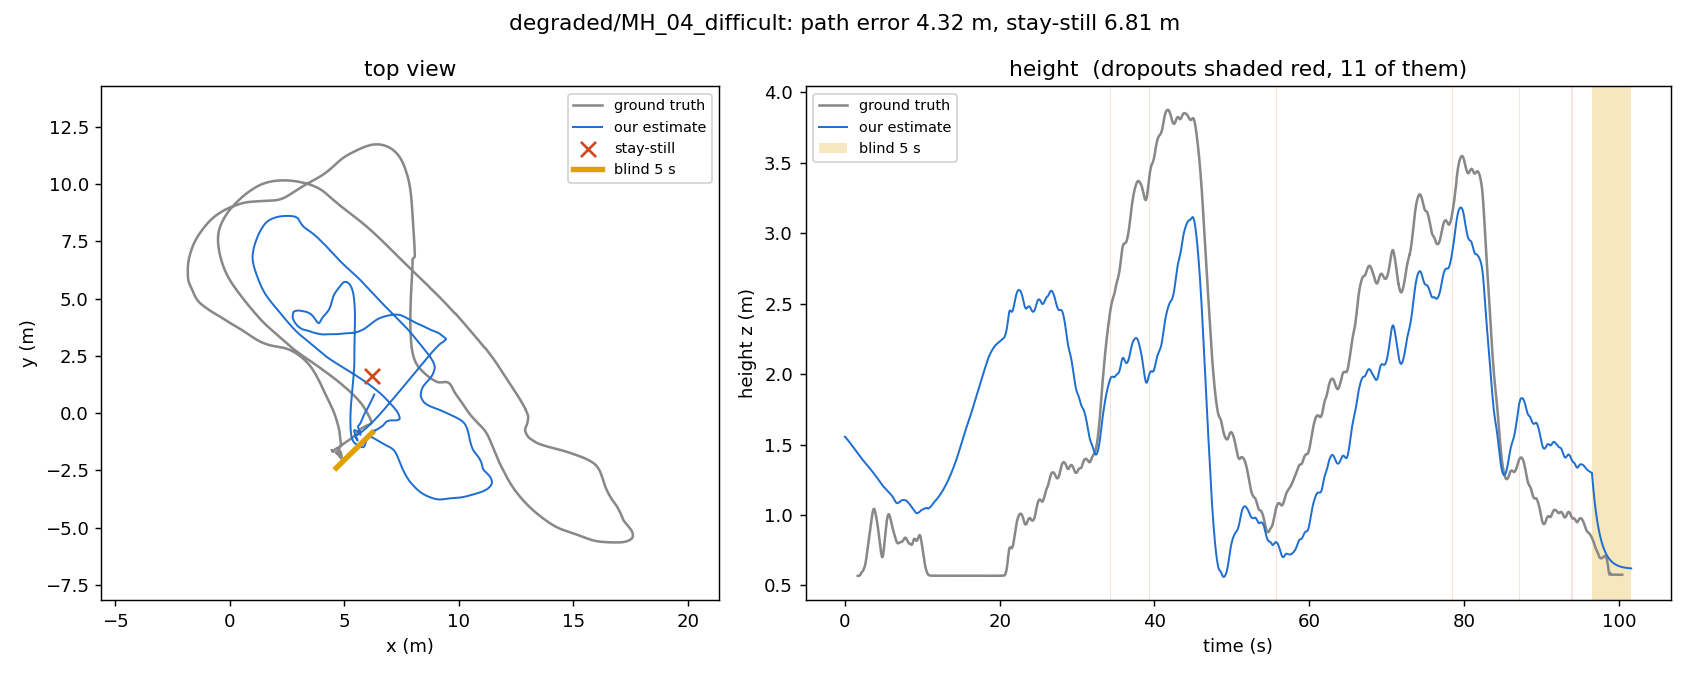
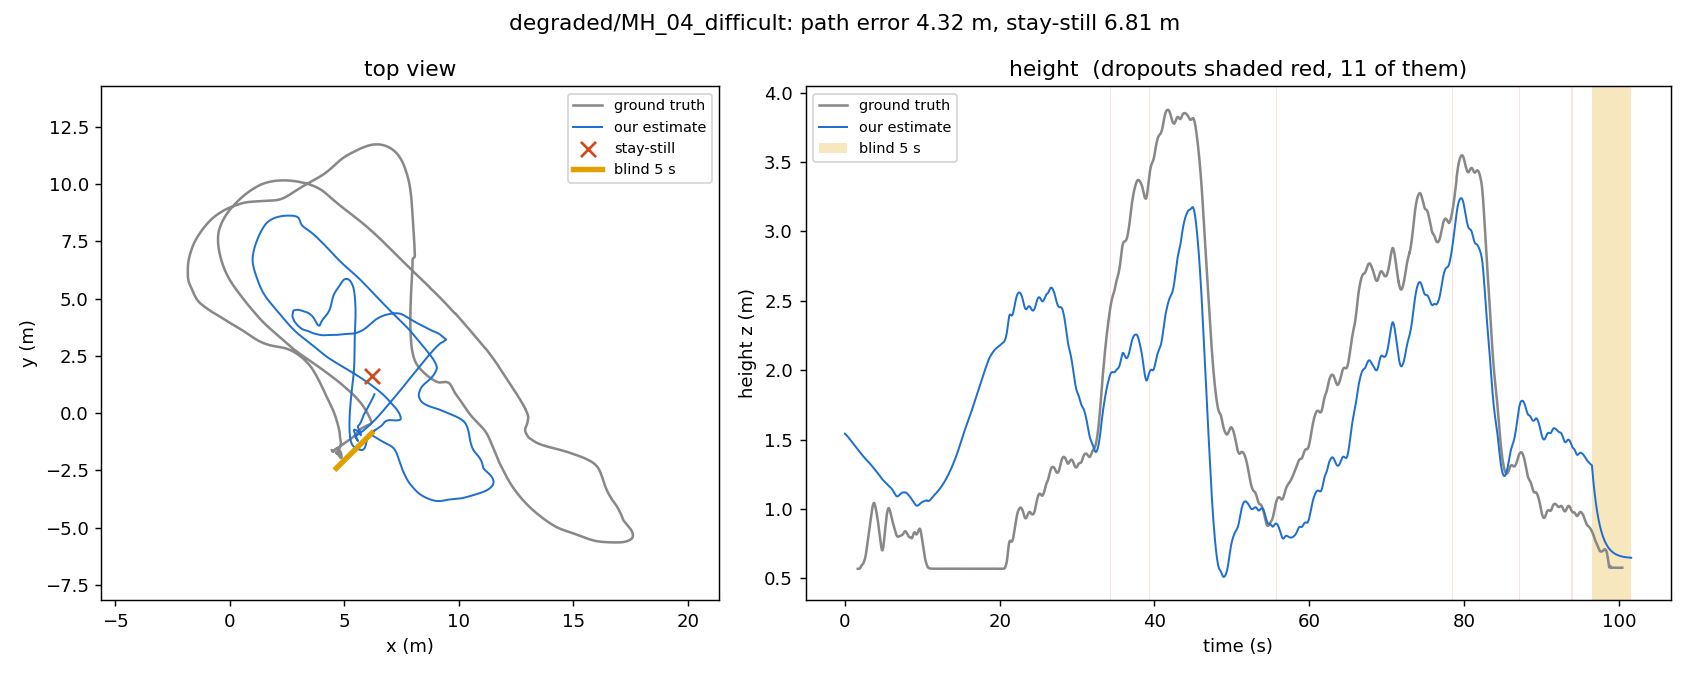
readme: sarthak-v6 results, offsets, height on the ground, orientation limits; figures redrawn

diff --git a/README.md b/README.md
@@ -22,7 +22,7 @@ exactly one pose per input row and the input timestamps copied digit for digit
 | resample | valid rows onto a uniform grid, gaps bridged by interpolation, gaps over 0.3 s flagged | dropouts |
 | attitude | gyro integrated at full rate with the bias from the first 1.5 s, then the tilt pulled back to gravity using a 30 s average of world acceleration, separately between long gaps | stops tilt drift without erasing real motion |
 | position | world acceleration averaged to 20 Hz, gravity removed, double-integrated in the frequency domain inside a band-pass | slow drift from bias and tilt error never builds up |
-| shrink | horizontal gain 0.25 below 0.08 Hz and 0.9 above, height gain 0.3; position faded towards zero where the gyro is mostly noise | a path that is too big costs more than one that is too small |
+| shrink | horizontal gain 0.15 below 0.065 Hz and 1.0 above (both fitted per frequency band against the ground truth), height gain 0.3; position faded towards zero where the gyro is mostly noise | a path that is too big costs more than one that is too small |
 | rotor drag | on a drone (found from motor buzz in the accelerometer), slow horizontal motion comes from drag instead: the accelerometer, read perpendicular to the measured thrust direction, gives -0.2 x velocity, which is velocity measured directly; where the buzz drops the drone is on the ground and the velocity is zero | velocity integrated once drifts far less than acceleration integrated twice |
 | blind 5 s | coast for a moment on the last velocity, then head for the estimated start point, averaged over the first 12 s | every practice recording ends within 0.45 m of where it began |
 | write | poses interpolated onto every input timestamp, 1024 rows at a time | memory |
@@ -30,8 +30,8 @@ exactly one pose per input row and the input timestamps copied digit for digit
 The idea behind the shrink: with an IMU alone, slow horizontal motion cannot be
 told apart from a small tilt error (1 degree of tilt is 0.17 m/s^2 of false
 acceleration, metres of error within half a minute). Fast motion and height are
-much better. So the estimate keeps fast motion at almost full size and slow
-horizontal motion at a quarter, and never lets drift accumulate.
+much better. So the estimate keeps fast motion at full size and slow
+horizontal motion at a sixth, and never lets drift accumulate.
 
 The rotor-drag step is what sets this apart from plain inertial navigation. A
 multirotor's thrust is along one body axis, so the accelerometer's other two
@@ -50,19 +50,24 @@ side axes read the pad's tilt, which looks like 2 m/s of velocity; blocks whose
 motor buzz falls below 0.6 of the typical level are treated as ground, with zero
 velocity. With both, the drag velocity explains 52 to 79% of the horizontal
 motion between 0.01 and 0.045 Hz against the ground truth (10 to 50% without).
+Two smaller refinements: the side-axis offsets are solved so that the mean
+velocity in the room is zero (the flights end where they began), and the height
+is held at one floor level wherever the drone is on the ground.
+`python tools/plot_drag.py` draws the drag velocity against the motion-capture
+velocity (`docs/figures/drag.png`).
 
-### Results (sarthak-v5, metres)
+### Results (sarthak-v6, metres)
 
 | recording | stay-still ate | ours ate | stay-still blind | ours blind |
 | --- | --- | --- | --- | --- |
-| V1_02_medium | 1.78 | 1.14 | 1.04 | 0.53 |
-| V1_03_difficult | 1.58 | 1.14 | 1.27 | 0.70 |
-| MH_04_difficult | 6.81 | 4.30 | 3.85 | 0.91 |
-| tumvi_room1 | 1.00 | 0.35 | 0.63 | 0.65 |
+| V1_02_medium | 1.78 | 1.09 | 1.04 | 0.48 |
+| V1_03_difficult | 1.58 | 1.12 | 1.27 | 0.68 |
+| MH_04_difficult | 6.81 | 4.32 | 3.85 | 0.89 |
+| tumvi_room1 | 1.00 | 0.32 | 0.63 | 0.60 |
 
 Across the default, raw-order and four harsher stress sets (24 runs), the path
-error is 0.65 of stay-still on average (v3, before rotor drag: 0.77) and below it
-in every run; the blind error is 0.58 of stay-still (v3: 0.98). Peak memory is 2.7 to 4.3 MB
+error is 0.63 of stay-still on average (v3, before rotor drag: 0.77) and below it
+in every run; the blind error is 0.57 of stay-still (v3: 0.98). Peak memory is 2.8 to 4.4 MB
 (tracemalloc, after `import numpy`), runtime 1.4 to 2.9 ms per second of data.
 `python tools/evalall.py` prints these ratios for every local set at once,
 `python tools/plot_path.py data/degraded/tumvi_room1` draws the estimate
@@ -72,15 +77,15 @@ against the ground truth.
 
 | recording | stay-still ate | ours ate | ours, raw column order | stay-still blind | ours blind |
 | --- | --- | --- | --- | --- | --- |
-| V2_02_medium | 2.12 | 1.56 | 1.59 | 2.69 | 2.83 |
-| MH_03_medium | 3.59 | 2.33 | 2.61 | 3.09 | 1.63 |
-| tumvi_room2 | 1.22 | 0.32 | 0.34 | 0.72 | 0.62 |
-| tumvi_room3 | 1.25 | 0.70 | 0.64 | 0.70 | 0.71 |
-| tumvi_room4 | 1.08 | 0.73 | 0.76 | 0.78 | 0.77 |
+| V2_02_medium | 2.12 | 1.51 | 1.53 | 2.69 | 2.87 |
+| MH_03_medium | 3.59 | 2.36 | 2.63 | 3.09 | 2.00 |
+| tumvi_room2 | 1.22 | 0.32 | 0.34 | 0.72 | 0.68 |
+| tumvi_room3 | 1.25 | 0.61 | 0.58 | 0.70 | 0.75 |
+| tumvi_room4 | 1.08 | 0.77 | 0.79 | 0.78 | 0.76 |
 
 All 10 runs beat stay-still on the path. Together with five EuRoC files cut to
-start mid-flight, the 15 held-out runs average 0.69 of stay-still on the path
-(worst 1.04, V2_02 cut to start mid-flight) and 0.90 on the blind 5 s. This check found two real bugs,
+start mid-flight, the 15 held-out runs average 0.68 of stay-still on the path
+(worst 1.05, V2_02 cut to start mid-flight) and 0.93 on the blind 5 s. This check found two real bugs,
 both fixed: idling motors on the pad were taken for movement, so the EuRoC gyro
 bias (about 0.08 rad/s) was never removed; and a file that starts mid-flight
 had no bias estimate at all. The rotor-drag step was tuned on the first four
@@ -95,9 +100,10 @@ tumvi_room6; 10 runs with both column orders), compared with the version before 
 | --- | --- | --- | --- |
 | before rotor drag (sarthak-v3) | 0.88 | 1.29 | 1.08 |
 | first rotor-drag version (sarthak-v4) | 0.75 | 0.97 | 0.83 |
-| now (sarthak-v5) | 0.72 | 0.98 | 0.74 |
+| thrust direction and ground detection (sarthak-v5) | 0.72 | 0.98 | 0.74 |
+| now (sarthak-v6) | 0.66 | 0.97 | 0.76 |
 
-MH_05_difficult: path 4.29 m against 6.87 m for stay-still, blind 1.14 m against 4.09 m.
+MH_05_difficult: path 4.27 m against 6.87 m for stay-still, blind 1.10 m against 4.09 m.
 
 To repeat it: `python tools/fetch_euroc.py V2_02_medium MH_03_medium --out
 data/holdout_clean`, `python tools/fetch_tumvi.py room2 room3 room4 --out
@@ -115,6 +121,10 @@ Known limits:
 - The blind target is read from a second drag track without ground detection;
   on all three test groups it lands nearer the true start than the main track,
   which is an observation, not something derived.
+- Orientation: heading (yaw) is not observable from an IMU alone, so a gyro
+  bias that drifts makes it wander. With the raw column order or a mid-flight
+  start the rotation error reaches 40 to 180 degrees on some files; with the
+  default order and a still start it is 4 to 20 degrees.
 - A 3 s file takes about 30 ms per second, nearly all of it the NumPy import.
 - About 2.1 MB of tracemalloc peak is Python compiling the script itself, on any input.
 - Tuning: `python tools/tune.py key=value ...` scores settings in-process.
